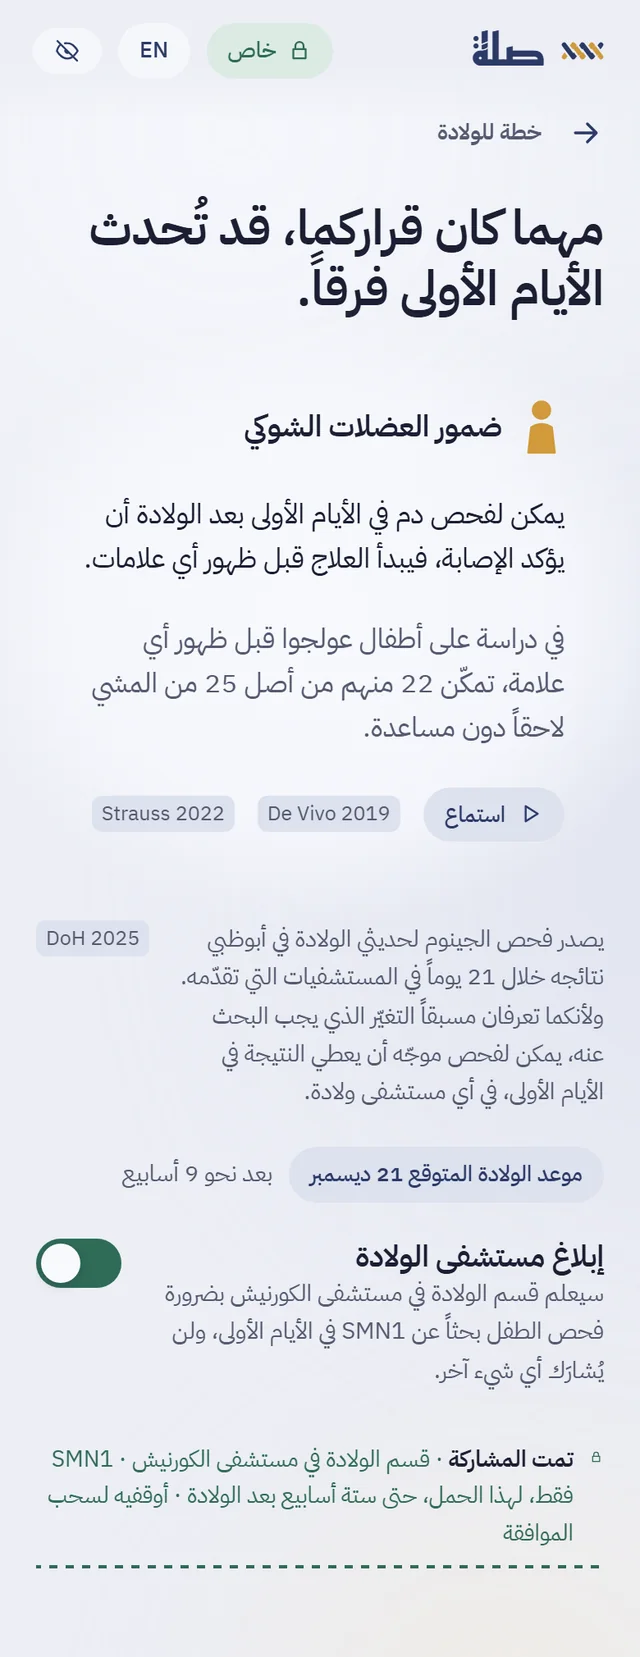
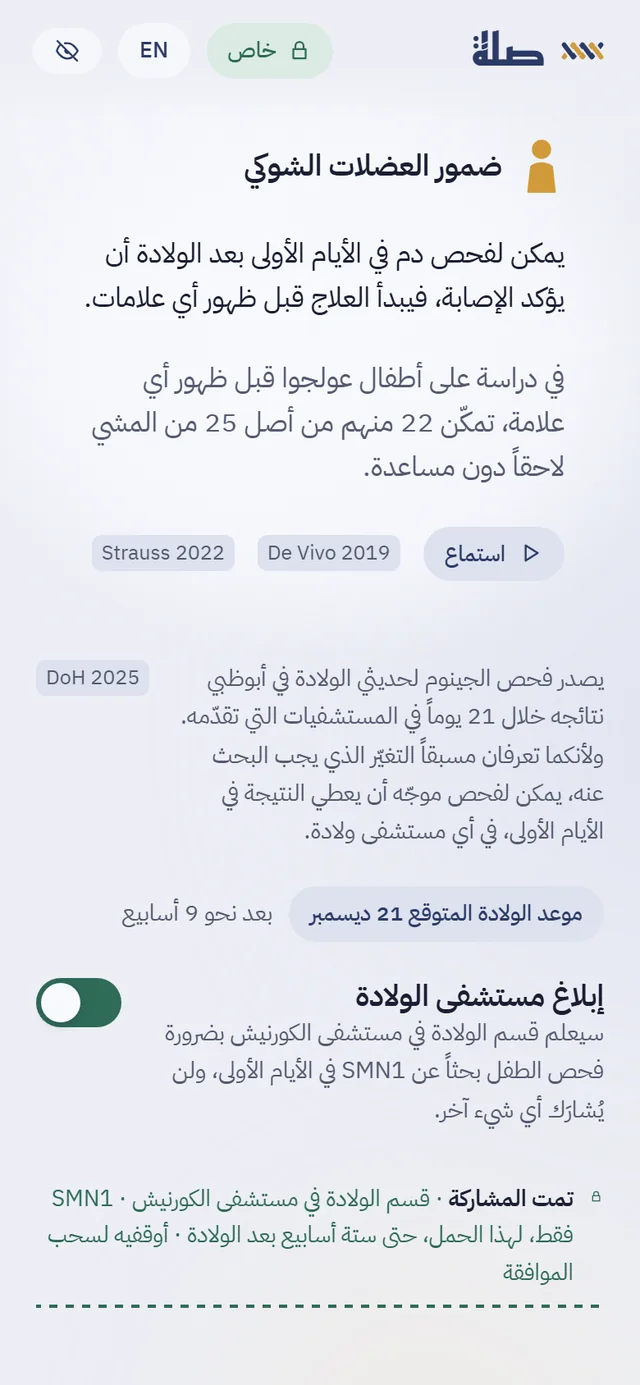
Site: phone-size birth screen; plain Built with list

diff --git a/site/ar.html b/site/ar.html
@@ -82,7 +82,7 @@
       <p class="outcome">يعرف الزوجان المعرّضان للخطر ذلك قبل الحمل القادم، ويصلان إلى مستشار وراثي.</p>
     </article>
     <article class="moment">
-      <div class="phone"><img src="assets/img/ar-birth.webp" width="640" height="1657" loading="lazy" alt="هاتف نورة: خطة للولادة خاصة بضمور العضلات الشوكي، مع زر إبلاغ مستشفى الولادة."></div>
+      <div class="phone"><img src="assets/img/ar-birth.webp" width="640" height="1385" loading="lazy" alt="هاتف نورة: خطة للولادة خاصة بضمور العضلات الشوكي، مع زر إبلاغ مستشفى الولادة."></div>
       <p class="n">2 · عند الولادة</p>
       <h3>فحص في الأيام الأولى، مهما كان قرارهما</h3>
       <p>يكفي زر واحد لإبلاغ مستشفى الولادة بالتغيّر الذي يجب البحث عنه. يصدر فحص الجينوم لحديثي الولادة من دائرة الصحة نتائجه خلال 21 يوماً، أما الفحص الموجّه للتغيّر المعروف فيمكن أن يعطي النتيجة في الأيام الأولى، في أي مستشفى ولادة.</p>
@@ -288,9 +288,15 @@
       <h3 style="margin-top:12px">من تطوير مارك دونوفيتشي <span lang="en" class="muted" style="font-weight:400">(Marc Donovici)</span></h3>
       <p class="muted" style="margin-top:14px">مشاركة فردية. أقود الذكاء الاصطناعي في وظيفة التدقيق الداخلي لدى مجموعة مصرفية أوروبية، حيث أدقق أنظمة المعلومات وفق اللائحة العامة لحماية البيانات وقانون الذكاء الاصطناعي الأوروبي، وأطوّر ذكاءً اصطناعياً سريرياً يعمل دون اتصال. حللتُ ثالثاً بين أكثر من 850 فريقاً في تحدي <span lang="en">MedGemma Impact</span> من <span lang="en">Google</span> لعام 2026. كتبتُ نواة الخطر في صلة، والمدقّق، والتشفير، وتطبيق الهاتف، وجانب المنظومة الصحية المحاكى، وأجريتُ تقييم النماذج.</p>
     </div>
-    <div class="pool saffron">
+    <div>
       <p class="eyebrow">بُني باستخدام</p>
-      <p class="small" style="margin-top:10px"><span lang="en">Preact</span> و<span lang="en">Vite</span> · <span lang="en">Gemma 4</span> عبر <span lang="en">llama.cpp</span> و<span lang="en">Transformers.js</span> · توقيعات <span lang="en">Ed25519</span> وتوقيعات <span lang="en">RSA</span> العمياء · معيار دائرة الصحة لفحص ما قبل الزواج، الإصدار 3 · نسب حاملي التغيّرات المنشورة لدى الإماراتيين. كل المكوّنات مفتوحة الترخيص، ولا بيانات شخصية.</p>
+      <ul class="built">
+        <li><b>تطبيق الهاتف</b><bdi lang="en">Preact</bdi> (نسخة خفيفة من <bdi lang="en">React</bdi>) و<bdi lang="en">Vite</bdi>. يُثبَّت من المتصفح ويعمل دون اتصال بالإنترنت.</li>
+        <li><b>النموذج اللغوي</b><bdi lang="en">Gemma 4</bdi>، على الهاتف عبر <bdi lang="en">Transformers.js</bdi> أو على حاسوب المستشار الوراثي عبر <bdi lang="en">llama.cpp</bdi>.</li>
+        <li><b>التوقيعات</b>توقيعات <bdi lang="en">Ed25519</bdi> على النتائج والإيصالات، وتوقيعات <bdi lang="en">RSA</bdi> العمياء لدعوة الأقارب دون كشف مُرسِل الدعوة.</li>
+        <li><b>المصادر السريرية</b>معيار دائرة الصحة لفحص ما قبل الزواج، الإصدار 3، ونسب حاملي التغيّرات المنشورة لدى الإماراتيين.</li>
+      </ul>
+      <p class="small muted" style="margin-top:14px">كل المكوّنات مفتوحة الترخيص، ولا بيانات شخصية.</p>
     </div>
   </div>
 </section>

diff --git a/site/index.html b/site/index.html
@@ -84,7 +84,7 @@
       <p class="outcome">An at-risk couple knows before the next pregnancy and reaches a counsellor.</p>
     </article>
     <article class="moment">
-      <div class="phone"><img src="assets/img/en-birth.webp" width="640" height="1657" loading="lazy" alt="Noura's phone: a birth plan for spinal muscular atrophy, with the switch that tells the delivery hospital."></div>
+      <div class="phone"><img src="assets/img/en-birth.webp" width="640" height="1385" loading="lazy" alt="Noura's phone: a birth plan for spinal muscular atrophy, with the switch that tells the delivery hospital."></div>
       <p class="n">2 · At birth</p>
       <h3>A test in the first days, whatever they chose</h3>
       <p>One switch tells the delivery hospital which change to look for. DoH’s newborn genome screening reports within 21 days; a targeted test of the known change can answer in the first days, in any delivery hospital.</p>
@@ -294,9 +294,15 @@
       <h3 style="margin-top:12px">Built by Marc Donovici</h3>
       <p class="muted" style="margin-top:14px">An independent entry. I lead AI for the internal audit function of a European banking group, where I audit information systems against the GDPR and the EU AI Act, and I build offline clinical AI. I placed 3rd of more than 850 teams in Google’s MedGemma Impact Challenge 2026. I wrote Silah’s risk kernel, verifier, cryptography, phone app and simulated health-system side, and ran the model evaluation.</p>
     </div>
-    <div class="pool saffron">
+    <div>
       <p class="eyebrow">Built with</p>
-      <p class="small" style="margin-top:10px">Preact and Vite · Gemma 4 through llama.cpp and Transformers.js · Ed25519 and RSA blind signatures · the DoH Premarital Screening Standard V3 · published Emirati carrier frequencies. Everything open-licensed; no personal data.</p>
+      <ul class="built">
+        <li><b>Phone app</b>Preact (a lightweight React) and Vite. It installs from the browser and works offline.</li>
+        <li><b>Language model</b>Gemma 4, on the phone through Transformers.js or on the counsellor’s computer through llama.cpp.</li>
+        <li><b>Signatures</b>Ed25519 on results and receipts; RSA blind signatures so relatives can be invited without revealing who sent the invitation.</li>
+        <li><b>Clinical sources</b>The DoH Premarital Screening Standard V3 and published Emirati carrier frequencies.</li>
+      </ul>
+      <p class="small muted" style="margin-top:14px">Every component is open-licensed. No personal data.</p>
     </div>
   </div>
 </section>

diff --git a/site/assets/site.css b/site/assets/site.css
@@ -200,8 +200,12 @@ section { padding-block: 72px; }
 .docs small { color: var(--ink-2); font-size: 14px; white-space: nowrap; }
 
 /* team */
-.team { display: grid; grid-template-columns: minmax(0, 7fr) minmax(0, 4fr); gap: 56px; align-items: center; }
+.team { display: grid; grid-template-columns: minmax(0, 7fr) minmax(0, 4fr); gap: 56px; align-items: start; }
 .team h3 { font-size: 26px; }
+.built { margin: 14px 0 0; padding: 0; list-style: none; font-size: 15px; color: var(--ink-2); line-height: 1.55; }
+.built li { padding-block: 11px; border-top: 1px solid var(--line); }
+.built li:last-child { border-bottom: 1px solid var(--line); }
+.built b { display: block; color: var(--ink); font-weight: 600; margin-bottom: 2px; }
 
 /* footer */
 footer { position: relative; padding-block: 62px 70px; font-size: 14.5px; color: #B9BFD3; background: var(--deep); }

diff --git a/site/build/capture_ar.py b/site/build/capture_ar.py
@@ -23,7 +23,7 @@ with sync_playwright() as p:
 
     def still(route, name, scroll=0, wait=2200):
         ph.goto(BASE + route); ph.wait_for_timeout(wait)
-        if scroll: ph.evaluate(f'window.scrollTo(0, {scroll})'); ph.wait_for_timeout(500)
+        if scroll: ph.evaluate(f'window.scrollTo(0, {scroll})'); ph.wait_for_timeout(500)   # pixels, or a JS expression
         ph.screenshot(path=f'{OUT}/{name}.png', style='.fab { display: none !important; }')
         print('shot', name)
 
@@ -35,7 +35,7 @@ with sync_playwright() as p:
     still('#/p/mariam/result', 'result')
     still('#/p/mariam/counsellor', 'counsellor')
     still('#/p/mariam/family', 'family')
-    ph.set_viewport_size({'width': 390, 'height': 1010}); still('#/p/noura/birth', 'birth'); ph.set_viewport_size(PHONE)
+    still('#/p/noura/birth', 'birth', scroll="document.querySelector('h1').getBoundingClientRect().bottom + scrollY - 36")   # plan and switch on one screen
     still('#/p/fatima/result', 'fatima_result', scroll=380)
     still('#/p/mariam/privacy', 'privacy')
     print('page errors:', errors or 'none')

diff --git a/site/build/build_assets.py b/site/build/build_assets.py
@@ -35,7 +35,7 @@ def webp(src, name, width, crop=None):
 
 # English phone screens (780 px wide at 2x) and wide screens
 for src, name in [('p01_mariam_invitation_still', 'en-invitation'), ('p04_mariam_result_top', 'en-result'), ('p07_ask_top', 'en-ask'),
-                  ('p11_family_still', 'en-family'), ('p18_noura_birth_on_still', 'en-birth'), ('p08_counsellor_still', 'en-counsellor'),
+                  ('p11_family_still', 'en-family'), ('p18c_noura_birth_phone', 'en-birth'), ('p08_counsellor_still', 'en-counsellor'),
                   ('p20_fatima_result_still', 'en-fatima'), ('p10_mariam_privacy_still', 'en-privacy')]:
     print(name, webp(os.path.join(SHOTS_EN, src + '.png'), name, 640))
 for src, name, w in [('s01_stage_result', 'stage', 1800), ('c03_queue_brief', 'clinic-queue', 1600), ('c01b_outreach_sim', 'clinic-outreach', 1600)]:
